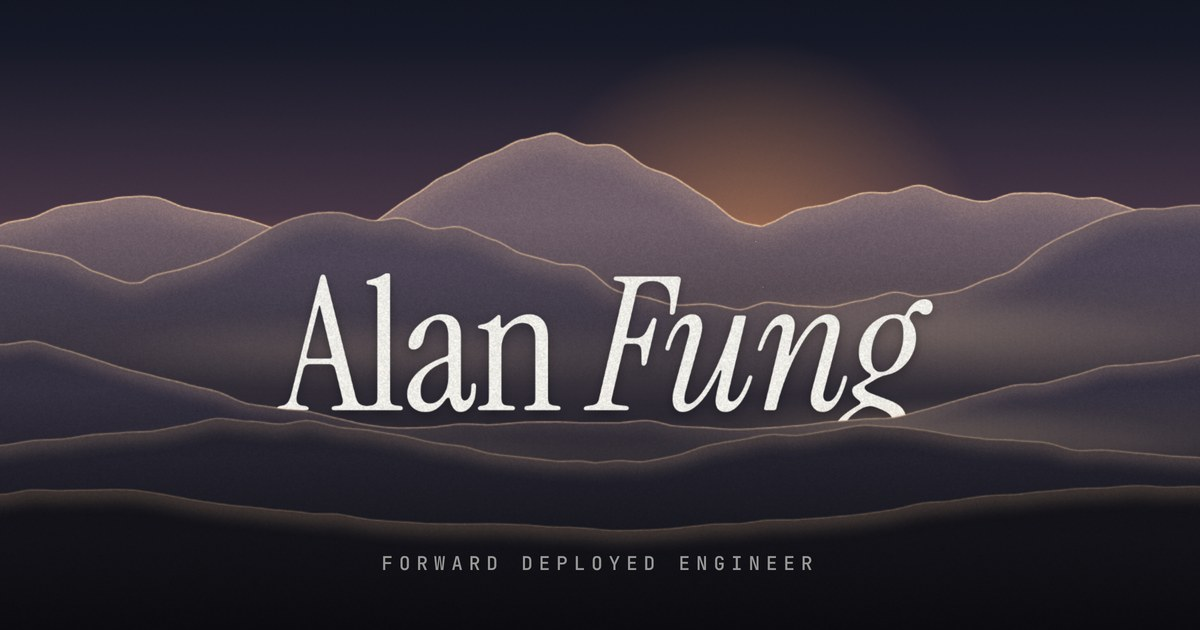
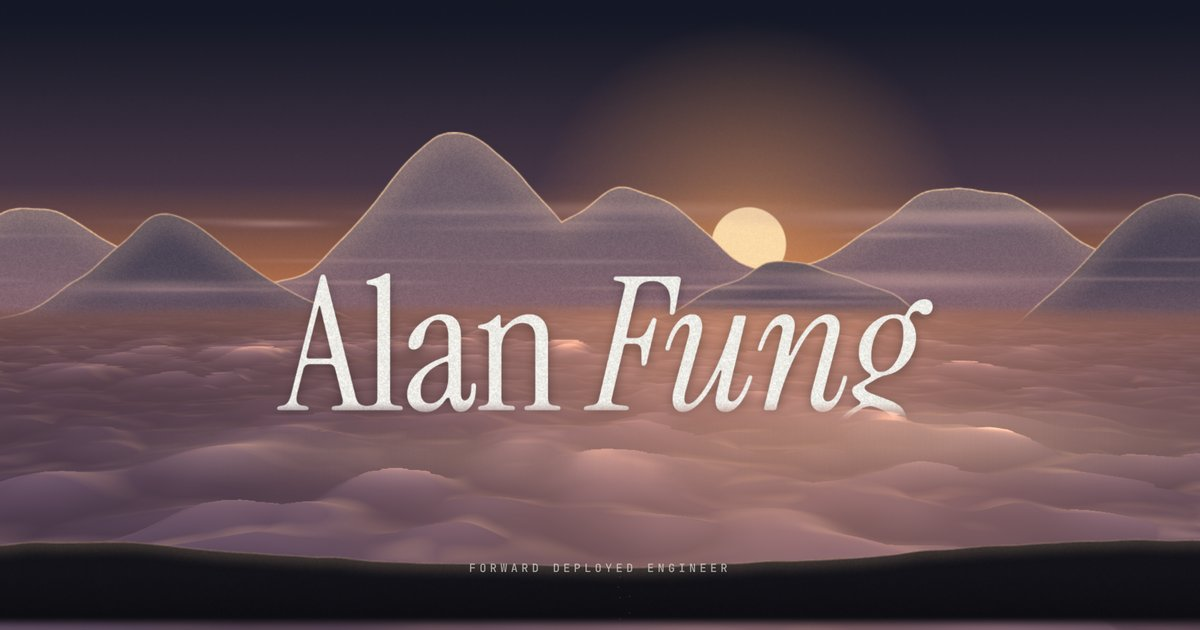
Retake the homepage share picture with the sea of cloud
Claude-Session: https://claude.ai/code/session_01UGZNRvypqijS8gkQzY75fr

diff --git a/index.html b/index.html
@@ -13,7 +13,7 @@
 <meta property="og:image" content="https://invokfung.github.io/assets/portfolio/media/card-home.jpg" />
 <meta property="og:image:width" content="1200" />
 <meta property="og:image:height" content="630" />
-<meta property="og:image:alt" content="Alan Fung, Forward Deployed Engineer, between paper mountains at first light" />
+<meta property="og:image:alt" content="Alan Fung, Forward Deployed Engineer, over a sea of cloud at first light" />
 <meta name="twitter:card" content="summary_large_image" />
 <link rel="canonical" href="https://invokfung.github.io/" />
 <!-- links into the map from when it was the homepage (/#/relay) still land on it -->
